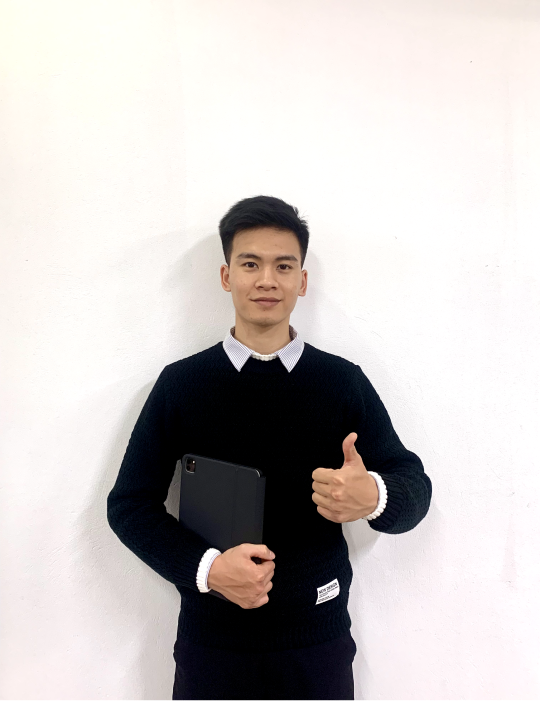
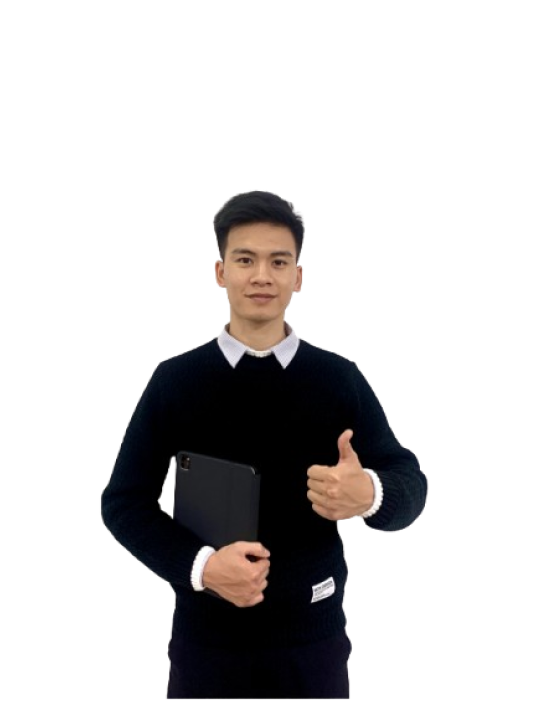
update team

diff --git a/index.html b/index.html
@@ -681,7 +681,7 @@
           <div class="col-lg-3 col-md-6" data-aos="zoom-out" data-aos-duretion="1400">
             <div class="team-boxarea">
               <div class="img1">
-                <img src="assets/img/all-images/team-3.png" alt="" />
+                <img src="assets/img/all-images/team-4.png" alt="" />
               </div>
               <ul style="background-image: url(assets/img/bg/iconsbg.png)">
                 <li>

diff --git a/assets/css/main.css b/assets/css/main.css
@@ -4261,6 +4261,7 @@ Location:
   font-weight: var(--ztc-weight-regular);
   color: var(--ztc-text-text-2);
   transition: all 0.4s;
+  text-align: justify;
 }
 .service1-section-area .service-all-boxes-area .service-boxarea.box2 {
   background: var(--ztc-bg-bg-6);
